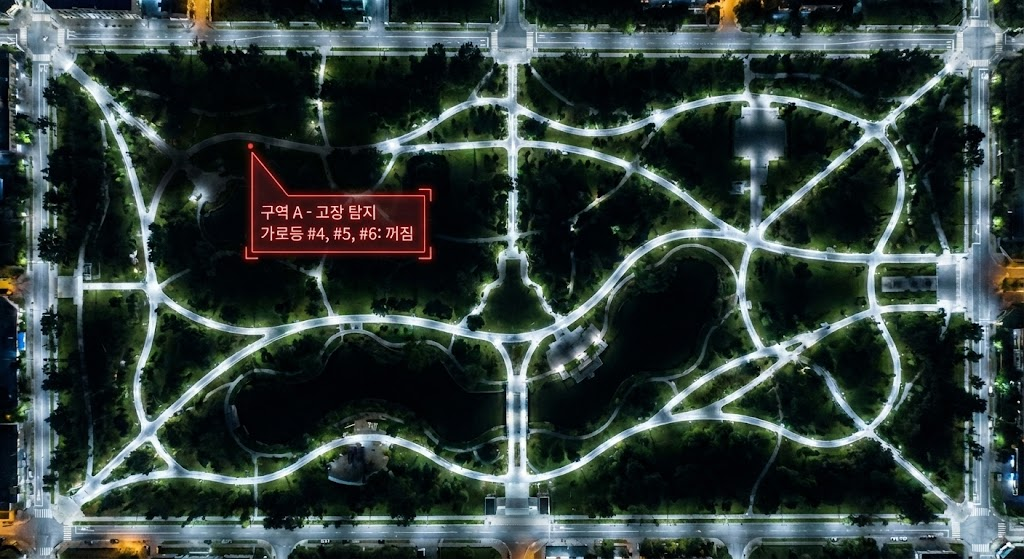
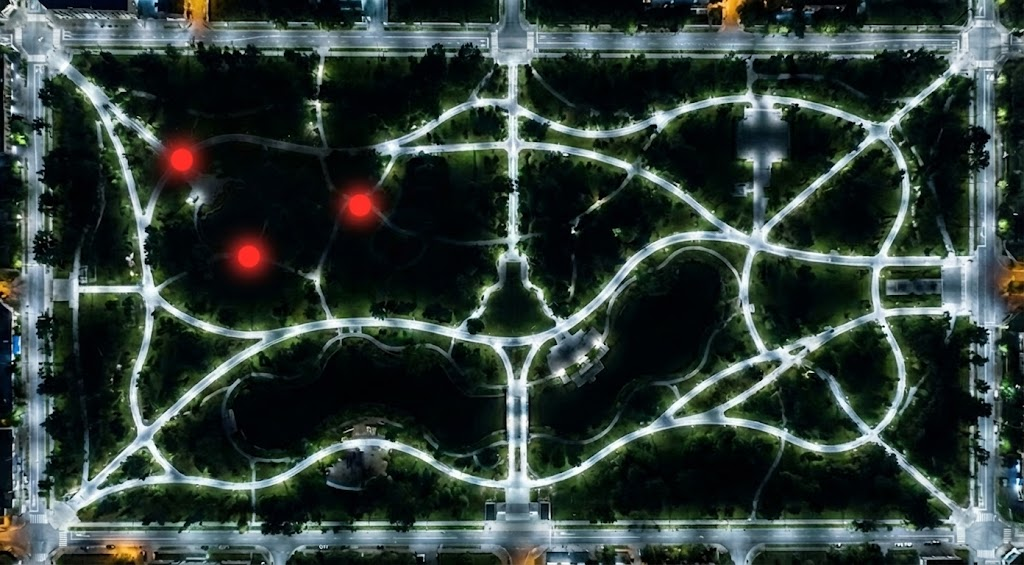
가로등 효과 수정

diff --git a/src/StreetLightIntro.jsx b/src/StreetLightIntro.jsx
@@ -6,8 +6,9 @@ const StreetLightIntro = () => {
   const [power, setPower] = useState(true);
   const [brightness, setBrightness] = useState(70); // 초기 밝기: 일몰 기준 70%
   const [activeMode, setActiveMode] = useState("sunset"); // sunset, sunrise, failure, manual
-  
-  // 고장 직전 상태 기억용
+  const [isRecovered, setIsRecovered] = useState(false); // 복구 완료 상태 추가
+
+  // 고장 직전 상태 기억용 (복구 시 사용하지 않게 됨)
   const [prevMode, setPrevMode] = useState("sunset");
   const [prevBrightness, setPrevBrightness] = useState(70);
 
@@ -15,6 +16,7 @@ const StreetLightIntro = () => {
   const handleModeChange = (mode) => {
     setActiveMode(mode);
     setPower(true);
+    setIsRecovered(false); // 다른 모드로 변경 시 복구 상태 해제
     
     if (mode === "sunset") setBrightness(70); // 일몰: 70%
     if (mode === "sunrise") setBrightness(20); // 일출: 20%
@@ -23,6 +25,7 @@ const StreetLightIntro = () => {
   const handleBrightnessChange = (e) => {
     if (activeMode === "failure") return; // 고장 모드에서는 밝기 조절 불가
     setActiveMode("manual");
+    setIsRecovered(false); // 수동 조작 시 복구 상태 해제
     const val = parseInt(e.target.value, 10);
     setBrightness(val);
     setPower(val > 0);
@@ -32,6 +35,7 @@ const StreetLightIntro = () => {
     if (activeMode === "failure") return; // 고장 모드에서는 전원 토글 불가
     const nextPower = !power;
     setPower(nextPower);
+    setIsRecovered(false); // 전원 조작 시 복구 상태 해제
     if (nextPower && brightness === 0) {
       setBrightness(70); // 켤 때 기본값은 일몰 밝기
       setActiveMode("sunset");
@@ -41,18 +45,25 @@ const StreetLightIntro = () => {
   // 고장 시뮬레이션 핸들러 (뷰 전환)
   const handleFailureTest = () => {
     if (activeMode !== "failure") {
-      setPrevMode(activeMode === "manual" ? "sunset" : activeMode); // 수동일 경우 기본 복귀는 일몰로
+      setPrevMode(activeMode === "manual" ? "sunset" : activeMode); 
       setPrevBrightness(brightness);
       setActiveMode("failure");
       setPower(true);
       setBrightness(100); 
+      setIsRecovered(false); // 고장 발생 시 복구 상태 해제
     }
   };
 
-  // 복구 핸들러 (원래 뷰로 복귀)
+  // 복구 핸들러 (수정됨: 정상 드론 뷰로 고정)
   const handleRecovery = () => {
-    setActiveMode(prevMode);
-    setBrightness(prevBrightness);
+    // 기존: 이전 상태로 복귀 (주석 처리)
+    // setActiveMode(prevMode);
+    // setBrightness(prevBrightness);
+    
+    // 변경: 복구 완료 상태로 설정하고 정상 드론 뷰(100%) 표시
+    setIsRecovered(true);
+    setActiveMode("manual"); // 모드는 수동으로 변경
+    setBrightness(100); // 밝기는 100%
     setPower(true);
   };
 
@@ -77,7 +88,7 @@ const StreetLightIntro = () => {
       {/* 본문 영역 */}
       <div className="max-w-7xl mx-auto px-4 sm:px-6 lg:px-8 mt-12 flex flex-col md:flex-row gap-10">
         
-        {/* 좌측 LNB (사이드바) - App.tsx 라우터 주소에 맞게 완벽 수정됨 */}
+        {/* 좌측 LNB (사이드바) */}
         <aside className="w-full md:w-[280px] flex-shrink-0">
           <div className="border border-slate-300">
             <div className="bg-[#1eb4c8] text-white py-4 px-5">
@@ -129,10 +140,10 @@ const StreetLightIntro = () => {
                 
                 {/* ----------------------------------------------------
                     View 1: 일상 제어 (일출, 일몰, 수동 디밍) 
-                    - 고장 모드가 아닐 때만 보입니다.
+                    - 고장 모드가 아니고, 복구 완료 상태가 아닐 때만 보입니다.
                 ----------------------------------------------------- */}
                 <div className={`absolute inset-0 w-full h-full transition-opacity duration-700 ease-in-out z-10
-                  ${activeMode !== "failure" ? 'opacity-100' : 'opacity-0 pointer-events-none'}`}>
+                  ${activeMode !== "failure" && !isRecovered ? 'opacity-100' : 'opacity-0 pointer-events-none'}`}>
                   
                   {/* Base: 완전 소등 상태 이미지 */}
                   <img src="/images/streetlightintro_off.jpg" className="w-full h-full object-cover absolute inset-0" alt="가로등 소등 상태" />
@@ -161,9 +172,10 @@ const StreetLightIntro = () => {
                 {/* ----------------------------------------------------
                     View 2: 항공 관제 뷰 (고장 시뮬레이션 전용) 
                     - 고장 모드일 때만 페이드인 됩니다.
+                    - 🔥 중요: 고장 이미지를 image_92.png로 변경했습니다.
                 ----------------------------------------------------- */}
                 <div className={`absolute inset-0 w-full h-full transition-opacity duration-700 ease-in-out z-20
-                  ${activeMode === "failure" ? 'opacity-100' : 'opacity-0 pointer-events-none'}`}>
+                  ${activeMode === "failure" && !isRecovered ? 'opacity-100' : 'opacity-0 pointer-events-none'}`}>
                   
                   {/* Base 드론 뷰 (정상) */}
                   <img 
@@ -172,23 +184,42 @@ const StreetLightIntro = () => {
                     alt="항공 관제 정상 뷰" 
                   />
 
-                  {/* Overlay 드론 뷰 (고장 핀 포함) */}
+                  {/* Overlay 드론 뷰 (고장 핀 포인트 이미지 - image_92.png 사용) */}
                   <img 
-                    src="/images/streetlightintro_failure.jpg" 
+                    src="/images/image_92.png" // 🔥 사용자가 제공한 새 이미지 파일명
                     className={`w-full h-full object-cover absolute inset-0 transition-opacity duration-500 delay-300 ease-out
                       ${activeMode === "failure" ? 'opacity-100' : 'opacity-0'}`}
-                    alt="고장 발생 시뮬레이션" 
+                    alt="고장 발생 핀 포인트" 
                   />
                   
-                  {/* 고장 경고 알림 UI (우측 하단) */}
+                  {/* 고장 경고 알림 UI (한글로 변경됨) */}
                   <div className="absolute bottom-[10%] right-[5%] flex items-center justify-center pointer-events-none animate-pulse z-30">
                     <div className="bg-red-900/90 backdrop-blur-sm px-5 py-3 rounded-xl border border-red-500 shadow-[0_0_30px_rgba(239,68,68,0.6)] flex items-center gap-3">
                       <span className="text-3xl">🚨</span>
                       <div className="text-left">
-                        <p className="text-red-200 text-xs font-bold uppercase tracking-widest mb-0.5">Failure Alert</p>
+                        <p className="text-red-200 text-xs font-bold uppercase tracking-widest mb-0.5">고장 탐지</p> {/* 🔥 한글 변경 */}
                         <p className="text-white text-sm font-bold leading-tight">구역 A<br/>가로등 #4, #5, #6 꺼짐</p>
                       </div>
                     </div>
+                  </div>
+                </div>
+
+                {/* ----------------------------------------------------
+                    View 3: 복구 완료 뷰 (새로 추가)
+                    - 복구 버튼을 눌렀을 때 (isRecovered === true) 페이드인 됩니다.
+                    - 정상 드론 뷰를 100% 밝기로 보여줍니다.
+                ----------------------------------------------------- */}
+                <div className={`absolute inset-0 w-full h-full transition-opacity duration-700 ease-in-out z-30
+                  ${isRecovered ? 'opacity-100' : 'opacity-0 pointer-events-none'}`}>
+                   <img 
+                    src="/images/streetlightintro_normal.jpg" 
+                    className="w-full h-full object-cover absolute inset-0" 
+                    alt="항공 관제 정상 뷰 (복구 완료)" 
+                  />
+                  {/* 복구 완료 뱃지 */}
+                  <div className="absolute bottom-6 left-6 z-30 flex items-center gap-2 bg-green-900/80 backdrop-blur-sm px-4 py-2 rounded-full border border-green-400 shadow-lg transition-all duration-500">
+                    <span className="text-2xl">✅</span>
+                    <span className="text-white text-sm font-bold tracking-wide">시스템 복구 완료 <span className="text-green-200">(정상 작동 중)</span></span>
                   </div>
                 </div>
 
@@ -209,10 +240,11 @@ const StreetLightIntro = () => {
                     </div>
                     <div className="flex justify-between items-center">
                       <span className="font-medium text-slate-300">현재 모드</span>
-                      <span className={`font-bold ${activeMode === 'failure' ? 'text-red-400' : ''}`}>
+                      <span className={`font-bold ${activeMode === 'failure' ? 'text-red-400' : isRecovered ? 'text-green-400' : ''}`}>
                         {activeMode === 'sunset' ? '🌆 일몰 (70%)' : 
                          activeMode === 'sunrise' ? '🌅 일출 (20%)' :
-                         activeMode === 'failure' ? '🚨 고장 발생' : '⚙ 수동 제어'}
+                         activeMode === 'failure' ? '🚨 고장 발생' : 
+                         isRecovered ? '✅ 정상 (복구됨)' : '⚙ 수동 제어'}
                       </span>
                     </div>
                   </div>
@@ -244,7 +276,7 @@ const StreetLightIntro = () => {
                       onClick={() => handleModeChange("sunset")}
                       disabled={activeMode === "failure"}
                       className={`py-3 px-2 text-sm font-bold rounded-xl border-2 transition-all flex flex-col items-center gap-1
-                        ${activeMode === "sunset" && power
+                        ${activeMode === "sunset" && power && !isRecovered
                           ? 'bg-orange-50 border-orange-400 text-orange-600' 
                           : 'bg-white border-slate-100 text-slate-500 hover:border-slate-300 hover:bg-slate-50'} 
                         disabled:opacity-50 disabled:cursor-not-allowed
@@ -257,7 +289,7 @@ const StreetLightIntro = () => {
                       onClick={() => handleModeChange("sunrise")}
                       disabled={activeMode === "failure"}
                       className={`py-3 px-2 text-sm font-bold rounded-xl border-2 transition-all flex flex-col items-center gap-1
-                        ${activeMode === "sunrise" && power
+                        ${activeMode === "sunrise" && power && !isRecovered
                           ? 'bg-indigo-50 border-indigo-400 text-indigo-600' 
                           : 'bg-white border-slate-100 text-slate-500 hover:border-slate-300 hover:bg-slate-50'}
                         disabled:opacity-50 disabled:cursor-not-allowed
@@ -269,7 +301,7 @@ const StreetLightIntro = () => {
                   </div>
                 </div>
 
-                {/* 고장 시뮬레이션 버튼 */}
+                {/* 고장 시뮬레이션 버튼 (텍스트 변경됨) */}
                 <div className="pt-5 border-t border-slate-100">
                   <button 
                     onClick={activeMode === "failure" ? handleRecovery : handleFailureTest}
@@ -283,7 +315,7 @@ const StreetLightIntro = () => {
                     {activeMode === "failure" ? (
                       <>
                         <svg className="w-5 h-5" fill="none" stroke="currentColor" viewBox="0 0 24 24"><path strokeLinecap="round" strokeLinejoin="round" strokeWidth="2.5" d="M4 4v5h.582m15.356 2A8.001 8.001 0 004.582 9m0 0H9m11 11v-5h-.581m0 0a8.003 8.003 0 01-15.357-2m15.357 2H15" /></svg>
-                        시스템 복구 (이전 상태로)
+                        시스템 복구 완료 {/* 🔥 텍스트 변경 */}
                       </>
                     ) : (
                       <>
